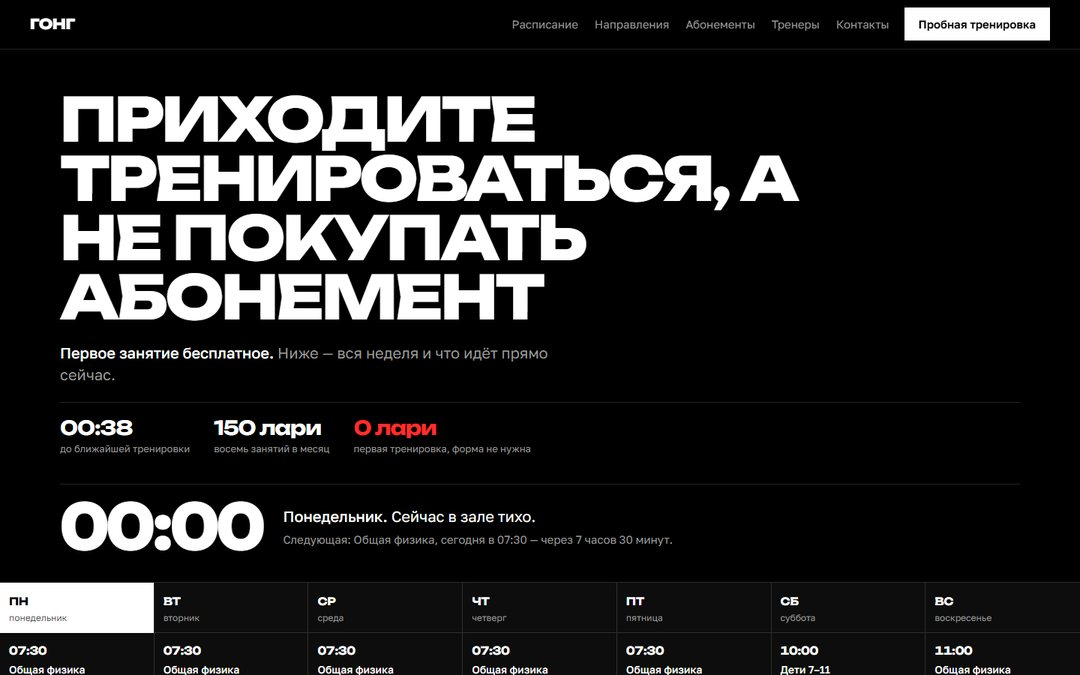
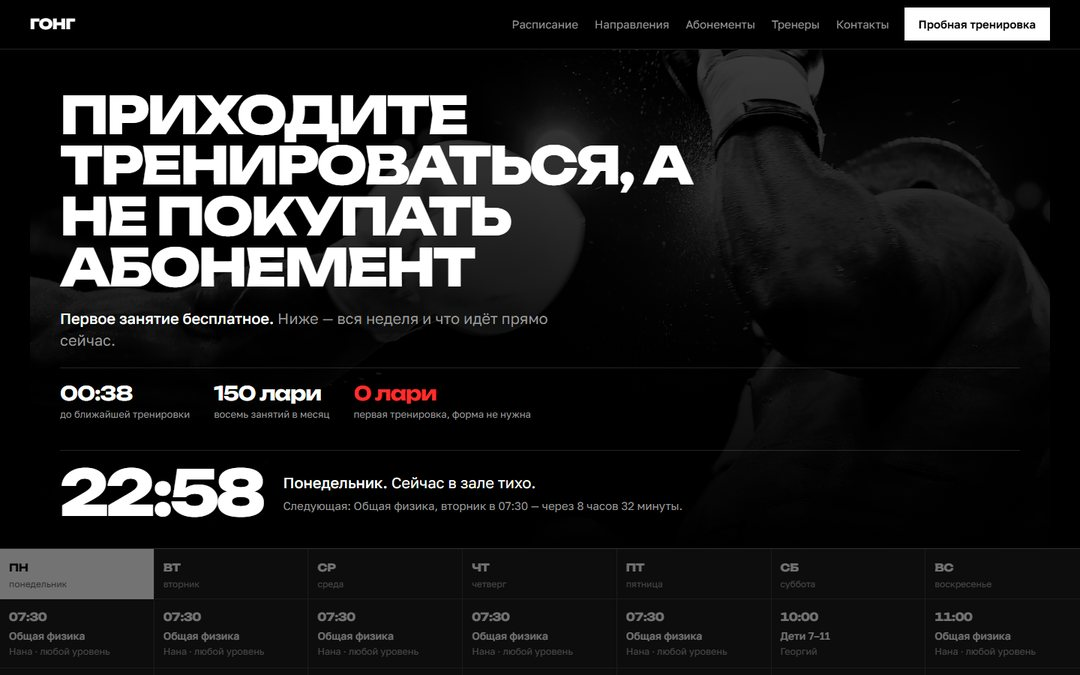
Новое превью Гонга

diff --git a/gong/index.html b/gong/index.html
@@ -93,7 +93,15 @@ h3{font-family:var(--text);font-weight:600;font-size:18px;line-height:1.3}
 
 /* ============ 1. герой ============ */
 .hero{padding:clamp(26px,4vw,54px) var(--gut) clamp(24px,3vw,36px);max-width:1360px;margin:0 auto}
-h1{font-family:var(--disp);font-weight:800;font-size:clamp(30px,5.6vw,92px);line-height:.98;
+/* Правка 21.09: кадр боя на фоне первого экрана, затемнён и уходит в чёрный.
+   Сам заголовок стал чуть меньше — картинка забирает часть внимания. */
+.hero{position:relative;isolation:isolate}
+.hero__bg{position:absolute;inset:0;z-index:-1;overflow:hidden}
+.hero__bg img{width:100%;height:100%;object-fit:cover;object-position:50% 35%;
+  filter:grayscale(1) contrast(1.1) brightness(.5)}
+.hero__bg::after{content:"";position:absolute;inset:0;
+  background:linear-gradient(180deg,rgba(0,0,0,.55) 0%,rgba(0,0,0,.72) 45%,var(--black) 100%)}
+h1{font-family:var(--disp);font-weight:800;font-size:clamp(25.5px,4.8vw,78.2px);line-height:.98;
   letter-spacing:-.045em;max-width:15ch;text-transform:uppercase}
 .hero__lead{margin-top:20px;font-size:clamp(17px,1.5vw,20px);line-height:1.45;max-width:58ch;color:var(--ash)}
 .hero__lead b{color:var(--white);font-weight:500}
@@ -132,6 +140,15 @@ h1{font-family:var(--disp);font-weight:800;font-size:clamp(30px,5.6vw,92px);line
 .days{display:none}
 .grid7{display:grid;grid-template-columns:repeat(7,minmax(0,1fr))}
 .day{border-right:1px solid var(--line);min-width:0}
+/* Правка 21.09: в таблице много цифр, и она шумит. По умолчанию неделя
+   приглушена, при наведении подсвечивается только нужный день.
+   «Идёт сейчас» не гаснет никогда — это главное, что ищут глазами. */
+.grid7 .day{opacity:.42;transition:opacity .25s ease}
+.grid7:hover .day{opacity:.28}
+.grid7 .day:hover,.grid7 .day:focus-within{opacity:1}
+.grid7 .day:has(.ses.is-now){opacity:1}
+@media (hover:none){.grid7 .day,.grid7:hover .day{opacity:1}}
+@media (prefers-reduced-motion:reduce){.grid7 .day{transition:none}}
 .day:last-child{border-right:0}
 .day__h{padding:14px 12px 10px;border-bottom:1px solid var(--line);
   font-family:var(--disp);font-weight:700;font-size:14px;letter-spacing:-.02em;text-transform:uppercase}
@@ -205,6 +222,15 @@ h1{font-family:var(--disp);font-weight:800;font-size:clamp(30px,5.6vw,92px);line
 .coaches{display:grid;grid-template-columns:1fr;gap:14px;margin-top:24px}
 @media (min-width:620px){.coaches{grid-template-columns:repeat(2,minmax(0,1fr))}}
 @media (min-width:1100px){.coaches{grid-template-columns:repeat(4,minmax(0,1fr))}}
+/* Правка 21.09: у каждого тренера кадр в круглой рамке, имя под ним.
+   Лица не ставим: чужой человек в роли «нашего тренера» — обман, и это
+   прямо запрещено регламентом (SITE-FACTORY §6). Вместо лиц — снаряд
+   по специализации: перчатки, ринг, канаты, гантели. */
+.co__ph{display:block;width:104px;height:104px;border-radius:50%;overflow:hidden;
+  border:1px solid var(--line);margin-bottom:14px}
+.co__ph img{width:100%;height:100%;object-fit:cover;object-position:50% 62%;transform:scale(1.25);
+  filter:grayscale(1) contrast(1.15) brightness(.85);transition:filter .3s ease,transform .3s ease}
+.co:hover .co__ph img{filter:grayscale(1) contrast(1.2) brightness(1);transform:scale(1.16)}
 .co{display:grid;background:var(--card);border:1px solid var(--line);border-radius:var(--r);
   box-shadow:var(--shadow-sm);padding:20px 18px;gap:6px;
   transition:transform .3s ease,box-shadow .3s ease}
@@ -216,7 +242,17 @@ h1{font-family:var(--disp);font-weight:800;font-size:clamp(30px,5.6vw,92px);line
 
 /* ============ зал ============ */
 .hall{display:grid;grid-template-columns:1fr;gap:26px;margin-top:24px}
-@media (min-width:900px){.hall{grid-template-columns:minmax(0,1fr) minmax(0,1fr);gap:40px;align-items:start}}
+@media (min-width:900px){
+  /* Правка 21.09: левая колонка тянется на всю высоту кадров, табло занимает
+     остаток — так оно стоит ровно напротив фотографий. */
+  .hall{grid-template-columns:minmax(0,1fr) minmax(0,1fr);gap:40px;align-items:stretch}
+  .hall > div{display:flex;flex-direction:column}
+  .hall .tablo{flex:1;grid-template-rows:repeat(2,minmax(0,1fr))}
+  .hall .tablo li{display:flex;flex-direction:column;justify-content:center;padding:26px 18px}
+  .hall figure{display:flex;flex-direction:column}
+  .hall .ph1,.hall .ph2{flex:1;display:flex}
+  .hall .ph1 img,.hall .ph2 img{height:100%}
+}
 /* Табло: зал описан цифрами, как счёт на ринге. У «Суппорта» и «Кружка»
    этот блок решён по-другому — чертежом и строками с маркерами. */
 .tablo{display:grid;grid-template-columns:repeat(2,minmax(0,1fr));gap:1px;background:var(--line);
@@ -226,10 +262,11 @@ h1{font-family:var(--disp);font-weight:800;font-size:clamp(30px,5.6vw,92px);line
   line-height:1;letter-spacing:-.05em}
 .tablo span{display:block;margin-top:10px;color:var(--ash);font-size:13.5px;line-height:1.35}
 .hall__cap{margin-top:16px;color:var(--ash);font-size:14px}
+.note .accent{color:var(--white);font-weight:600}
 .hall img{width:100%;object-fit:cover;border-radius:var(--r);
-  filter:grayscale(1) contrast(1.18) brightness(.9)}
+  filter:grayscale(1) contrast(1.05) brightness(1.15)}
 .hall .ph1 img{height:clamp(200px,26vw,320px)}
-.hall .ph2 img{height:clamp(140px,15vw,190px);margin-top:10px}
+.hall .ph2 img{height:clamp(200px,22vw,280px);margin-top:12px}
 figcaption{margin-top:10px;color:var(--ash);font-size:13px;line-height:1.45}
 
 /* ============ форма ============ */
@@ -293,6 +330,10 @@ fieldset.f{border:0;padding:0;margin:0}
 <main id="top">
   <!-- ============ 1. герой ============ -->
   <section class="hero" aria-labelledby="h1">
+    <div class="hero__bg" aria-hidden="true">
+      <img src="https://images.unsplash.com/photo-1591117207239-788bf8de6c3b?auto=format&fit=crop&w=2000&q=70"
+        alt="" width="2000" height="1333" fetchpriority="high" decoding="async">
+    </div>
     <h1 id="h1">Приходите тренироваться, а не покупать абонемент</h1>
     <p class="hero__lead"><b>Первое занятие бесплатное.</b> Ниже — вся неделя и что идёт прямо сейчас.</p>
 
@@ -373,7 +414,6 @@ fieldset.f{border:0;padding:0;margin:0}
       </div>
 
     </div>
-    <p class="week__cap">Время батумское. Зал открыт 7:00–22:00, в воскресенье до 18:00.</p>
   </section>
 
   <!-- ============ 3. направления ============ -->
@@ -411,7 +451,7 @@ fieldset.f{border:0;padding:0;margin:0}
         <li class="r"><span class="r__n">Детский абонемент, восемь занятий</span><span class="r__a">группа по возрасту</span><span class="r__b">месяц</span><span class="r__s">120 лари</span></li>
         <li class="r"><span class="r__n">Персональная тренировка</span><span class="r__a">один на один, 60 минут</span><span class="r__b">по договорённости</span><span class="r__s">80 лари</span></li>
       </ul>
-      <p class="note" style="margin-top:20px">Заболели или уехали — заморозим абонемент до десяти дней, бесплатно.</p>
+      <p class="note" style="margin-top:20px">Заболели или уехали — заморозим абонемент до десяти дней, <b class="accent">бесплатно</b>.</p>
     </div>
   </section>
 
@@ -420,10 +460,10 @@ fieldset.f{border:0;padding:0;margin:0}
     <div class="sec__in">
       <h2 id="h-c">Тренеры</h2>
       <ul class="coaches">
-        <li class="co"><span class="co__n">Давид</span><span class="co__s">бокс, кикбоксинг, открытый спарринг</span><span class="co__d">пн, ср, чт, сб</span></li>
-        <li class="co"><span class="co__n">Ираклий</span><span class="co__s">грэпплинг, ММА</span><span class="co__d">вт, пт, вс</span></li>
-        <li class="co"><span class="co__n">Нана</span><span class="co__s">женская группа, общая физика</span><span class="co__d">утро пн–пт, вт, чт, вс</span></li>
-        <li class="co"><span class="co__n">Георгий</span><span class="co__s">детские группы</span><span class="co__d">пн–сб</span></li>
+        <li class="co"><span class="co__ph"><img src="https://images.unsplash.com/photo-1549719386-74dfcbf7dbed?auto=format&fit=crop&w=600&q=74" alt="Боксёрские перчатки" width="600" height="600" loading="lazy" decoding="async"></span><span class="co__n">Давид</span><span class="co__s">бокс, кикбоксинг, открытый спарринг</span><span class="co__d">пн, ср, чт, сб</span></li>
+        <li class="co"><span class="co__ph"><img src="https://images.unsplash.com/photo-1630174385975-a406e87cd47c?auto=format&fit=crop&w=600&q=74" alt="Боксёрский мешок на цепях" width="600" height="600" loading="lazy" decoding="async"></span><span class="co__n">Ираклий</span><span class="co__s">грэпплинг, ММА</span><span class="co__d">вт, пт, вс</span></li>
+        <li class="co"><span class="co__ph"><img src="https://images.unsplash.com/photo-1526506118085-60ce8714f8c5?auto=format&fit=crop&w=600&q=74" alt="Силуэт в тёмном зале" width="600" height="600" loading="lazy" decoding="async"></span><span class="co__n">Нана</span><span class="co__s">женская группа, общая физика</span><span class="co__d">утро пн–пт, вт, чт, вс</span></li>
+        <li class="co"><span class="co__ph"><img src="https://images.unsplash.com/photo-1576678927484-cc907957088c?auto=format&fit=crop&w=600&q=74" alt="Ряд гантелей в зале" width="600" height="600" loading="lazy" decoding="async"></span><span class="co__n">Георгий</span><span class="co__s">детские группы</span><span class="co__d">пн–сб</span></li>
       </ul>
     </div>
   </section>
@@ -444,7 +484,7 @@ fieldset.f{border:0;padding:0;margin:0}
         </div>
         <figure>
           <div class="ph1"><img src="https://images.unsplash.com/photo-1716306886418-f84f6d4c2f3a?auto=format&fit=crop&w=1400&q=74" alt="Ряд боксёрских мешков в зале" width="1400" height="930" loading="lazy" decoding="async"></div>
-          <div class="ph2"><img src="https://images.unsplash.com/photo-1630174385975-a406e87cd47c?auto=format&fit=crop&w=1400&q=74" alt="Мешок на цепях у светлой стены" width="1400" height="930" loading="lazy" decoding="async"></div>
+          <div class="ph2"><img src="https://images.unsplash.com/photo-1605296867304-46d5465a13f1?auto=format&fit=crop&w=1400&q=74" alt="Силуэт со штангой в тёмном зале" width="1400" height="930" loading="lazy" decoding="async"></div>
         </figure>
       </div>
     </div>
